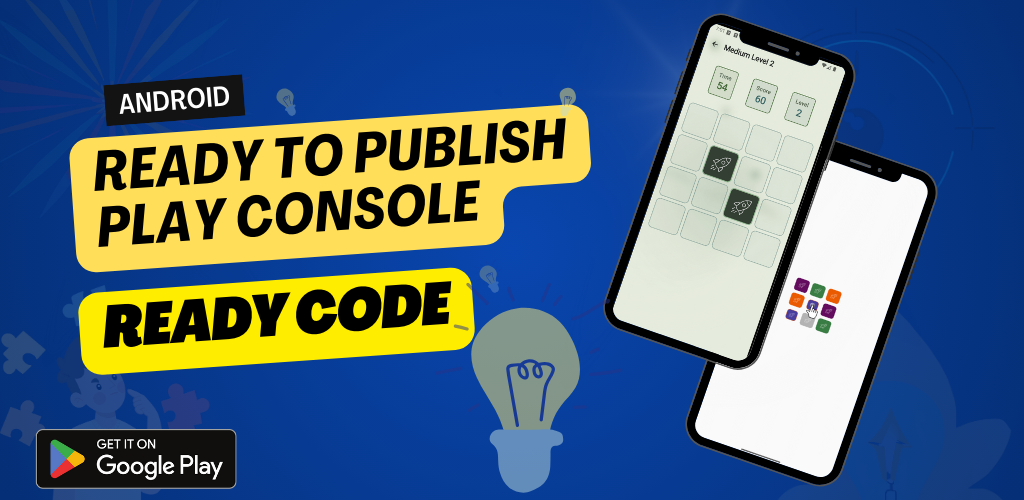
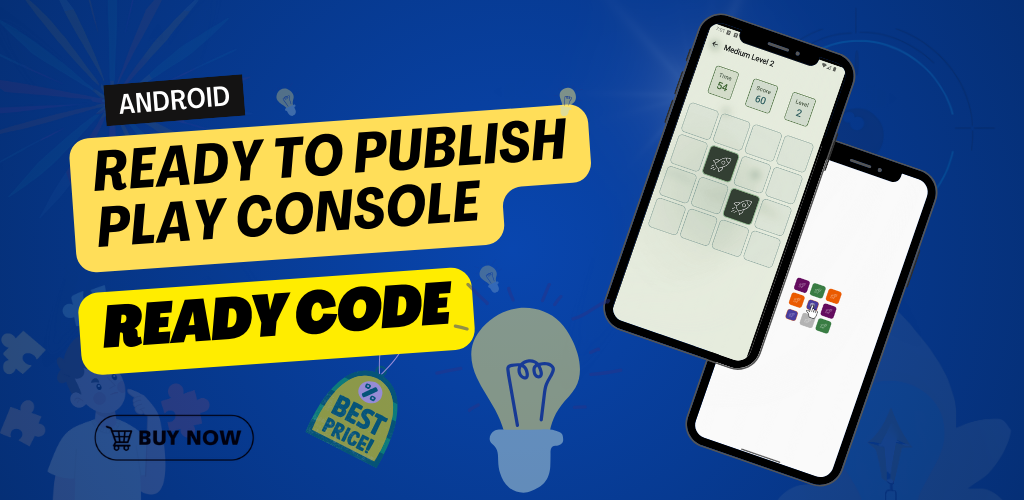
Update README with new download and purchase links; replace APK link

Changed region(s): [[0.0312, 0.81, 0.25, 0.99], [0.2812, 0.72, 0.4062, 0.93]]

diff --git a/README.md b/README.md
@@ -1,6 +1,6 @@
 # 🧠 Mind Color Challenge - The Ultimate Memory & Puzzle Game
 
-[![Release](https://img.shields.io/badge/Release-v1.0.0-blue.svg?style=for-the-badge&logo=android)](https://play.google.com/store/apps/details?id=dev.toufikforyou.colormatching)
+[![Release](https://img.shields.io/badge/Release-v1.0.0-blue.svg?style=for-the-badge&logo=android)](https://github.com/toufikforyou/mind-color-challenge/releases/latest)
 [![Platform](https://img.shields.io/badge/Platform-Android_16-green.svg?style=for-the-badge&logo=android)](https://www.android.com)
 [![Tech](https://img.shields.io/badge/Built_With-Jetpack_Compose-4285F4.svg?style=for-the-badge&logo=jetpackcompose)](https://developer.android.com/jetpack/compose)
 [![Monetization](https://img.shields.io/badge/Monetization-AdMob_Ready-orange.svg?style=for-the-badge&logo=googleads)](https://admob.google.com)
@@ -95,7 +95,15 @@ _Simply replace the Ad Unit IDs in the code, and you're ready to earn!_
 
 Download the demo APK to experience the smooth performance and addictive gameplay yourself!
 
-[Download Color Matching Game](https://github.com/toufikforyou/ColorMatchingGame/releases/latest)
+<div align="center">
+  <a href="https://github.com/toufikforyou/mind-color-challenge/releases/latest">
+    <img src="https://img.shields.io/badge/Download-Demo_APK-00C853?style=for-the-badge&logo=android&logoColor=white" height="50" alt="Download Demo" />
+  </a>
+  &nbsp;&nbsp;&nbsp;
+  <a href="https://codecanyon.net/user/toufikforyou/portfolio">
+    <img src="https://img.shields.io/badge/Buy_Now-CodeCanyon-82B541?style=for-the-badge&logo=envato&logoColor=white" height="50" alt="Buy on CodeCanyon" />
+  </a>
+</div>
 
 ---
 
